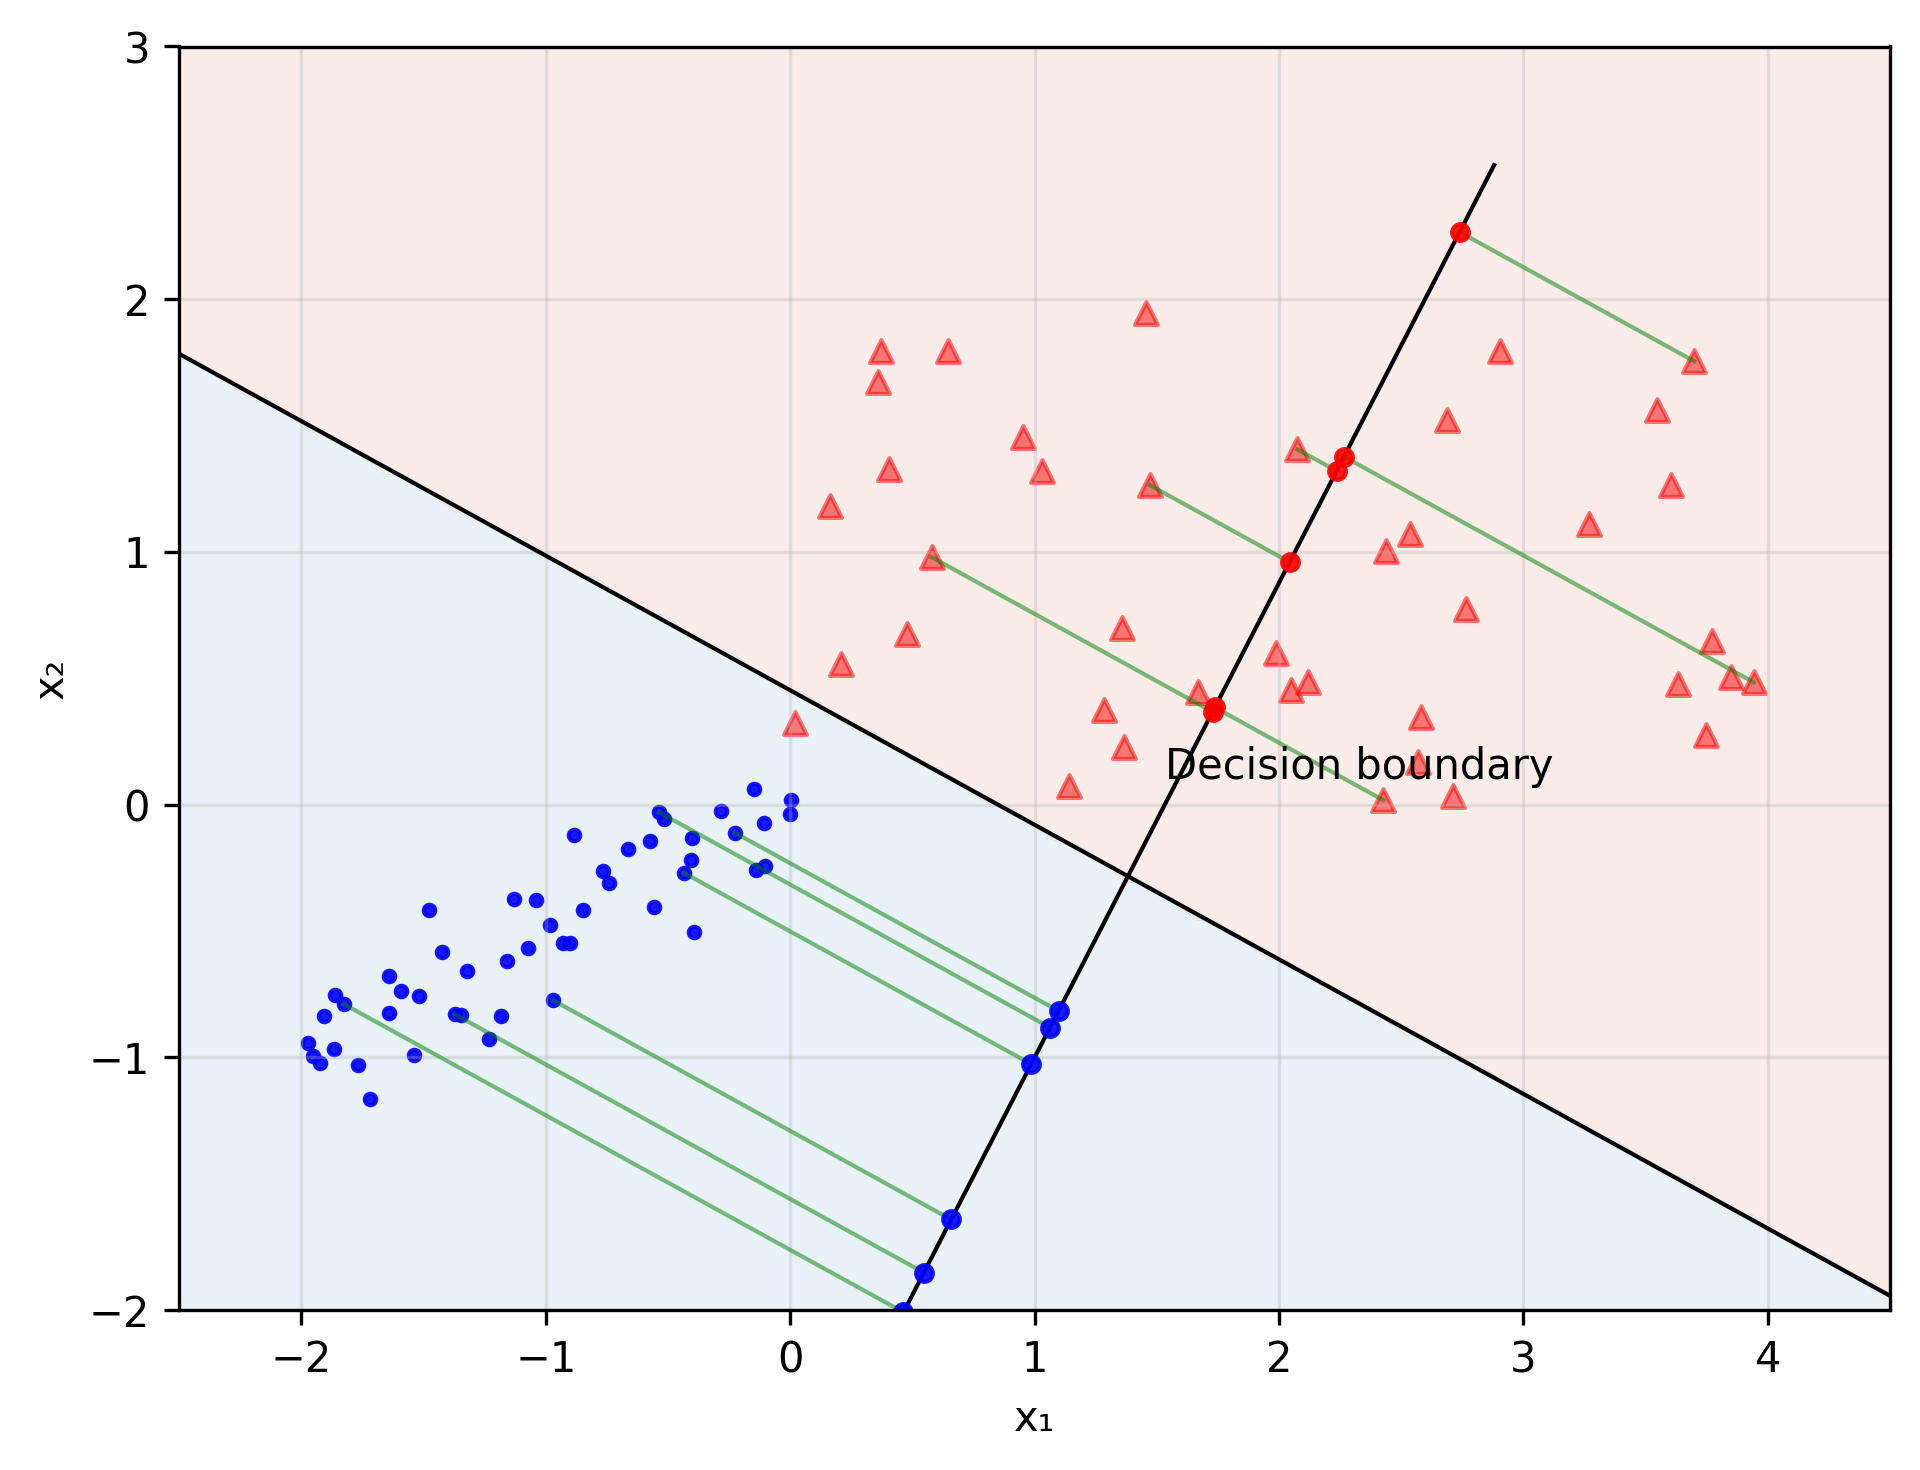
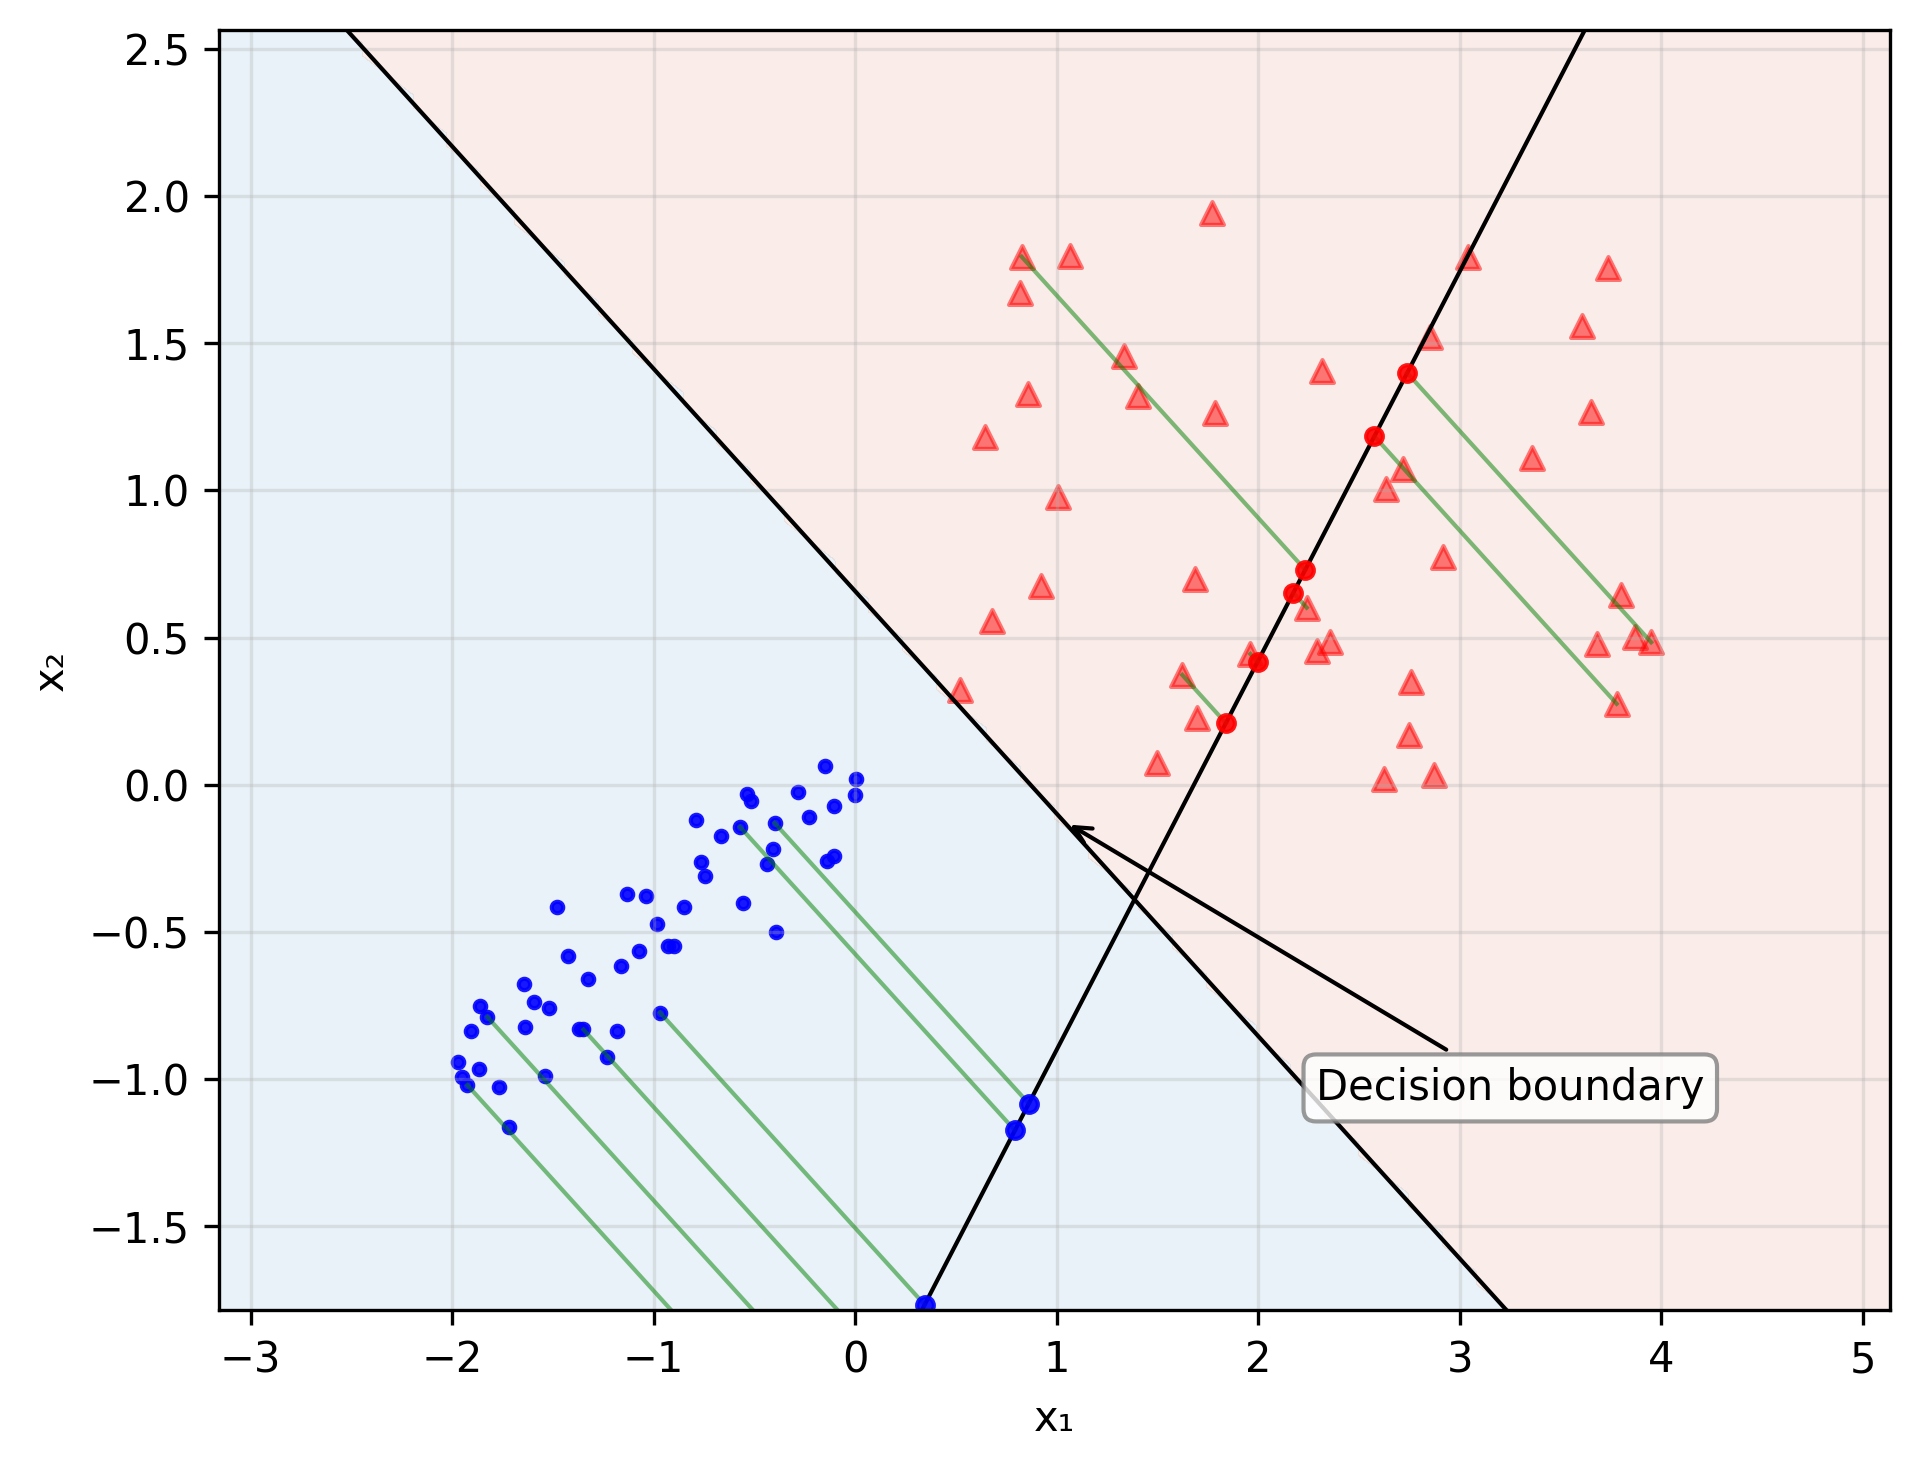
fix

diff --git a/ML_Obsidian_Vault/Lectures/4/Codes/L4_4_Quiz_25_question.py b/ML_Obsidian_Vault/Lectures/4/Codes/L4_4_Quiz_25_question.py
@@ -34,18 +34,19 @@ def create_lda_visualization():
         t = i / (n_samples_class0 - 1)
         X_class0[i, 0] = -2 + t * 2  # x from -2 to 0
         X_class0[i, 1] = -1 + t * 1  # y from -1 to 0
-        # Add random variation
-        X_class0[i, 0] += np.random.normal(0, 0.15)
-        X_class0[i, 1] += np.random.normal(0, 0.15)
+        # Add random variation but limit how far points can stray
+        X_class0[i, 0] += np.clip(np.random.normal(0, 0.15), -0.3, 0.3)
+        X_class0[i, 1] += np.clip(np.random.normal(0, 0.15), -0.3, 0.3)
     
     # Class 1 (red triangles) - more scattered in top right
     n_samples_class1 = 40
     X_class1 = np.zeros((n_samples_class1, 2))
     
-    # Create scattered pattern for red points
+    # Create scattered pattern for red points (ensuring they stay in the top right quadrant)
     for i in range(n_samples_class1):
-        X_class1[i, 0] = np.random.uniform(0, 4)  # x from 0 to 4
-        X_class1[i, 1] = np.random.uniform(0, 2)  # y from 0 to 2
+        # Generate points further away from the blue cluster
+        X_class1[i, 0] = np.random.uniform(0.5, 4)  # x from 0.5 to 4 (minimum 0.5 to avoid overlap)
+        X_class1[i, 1] = np.random.uniform(0, 2)    # y from 0 to 2
     
     # Combine data
     X = np.vstack([X_class0, X_class1])
@@ -73,9 +74,13 @@ def create_lda_visualization():
         w = mean1 - mean0
         w = w / np.linalg.norm(w)
     
-    # For visualization bounds
-    x_min, x_max = -2.5, 4.5
-    y_min, y_max = -2.0, 3.0
+    # Calculate plot bounds based on data
+    x_padding = (np.max(X[:, 0]) - np.min(X[:, 0])) * 0.2
+    y_padding = (np.max(X[:, 1]) - np.min(X[:, 1])) * 0.2
+    x_min = np.min(X[:, 0]) - x_padding
+    x_max = np.max(X[:, 0]) + x_padding
+    y_min = np.min(X[:, 1]) - y_padding
+    y_max = np.max(X[:, 1]) + y_padding
     
     # Compute decision boundary (perpendicular to w, passing through midpoint)
     midpoint = (mean0 + mean1) / 2
@@ -96,21 +101,37 @@ def create_lda_visualization():
             proj = np.dot(point - midpoint, w)
             Z[i, j] = 1 if proj > 0 else 0
     
+    # Force-check data points to make sure there are no misclassifications
+    # Calculate linear classification for each data point
+    for i in range(len(X)):
+        point_class = 1 if np.dot(X[i] - midpoint, w) > 0 else 0
+        # If point is misclassified according to the LDA boundary
+        if point_class != y[i]:
+            # Move the point further into its correct class region
+            if y[i] == 0:  # Blue class
+                # Move blue point more to the left/bottom
+                X[i] = X[i] - 0.5 * w
+            else:  # Red class
+                # Move red point more to the right/top
+                X[i] = X[i] + 0.5 * w
+    
     # Create projection line (in direction perpendicular to decision boundary)
-    # Position it at the bottom of the plot
-    proj_line_y = -1.0  # fixed y-coordinate for the projection line
+    # Position it below the data points (calculate based on data bounds)
+    proj_line_y = y_min + 0.2 * (y_max - y_min)  # Position relative to data bounds
     # Calculate the direction vector of the projection line
     # This is the direction of w itself (perpendicular to decision boundary)
     proj_direction = w / np.linalg.norm(w)
     # Create the projection line endpoints
-    line_length = 8.0
-    proj_center = np.array([1.0, proj_line_y])  # Center of projection line
+    # Calculate line length based on data bounds
+    line_length = 1.2 * (x_max - x_min)
+    # Place line horizontally centered in the plot
+    proj_center = np.array([(x_min + x_max) / 2, proj_line_y])
     proj_start = proj_center - line_length/2 * proj_direction
     proj_end = proj_center + line_length/2 * proj_direction
     
-    return X, y, mean0, mean1, w, xx, yy, Z, xx_line, yy_line, proj_start, proj_end
+    return X, y, mean0, mean1, w, xx, yy, Z, xx_line, yy_line, proj_start, proj_end, midpoint
 
-def plot_visualization(X, y, mean0, mean1, w, xx, yy, Z, xx_line, yy_line, proj_start, proj_end):
+def plot_visualization(X, y, mean0, mean1, w, xx, yy, Z, xx_line, yy_line, proj_start, proj_end, midpoint):
     """Plot the LDA visualization with proper projections."""
     fig, ax = plt.subplots(figsize=(6.5, 5))
     
@@ -124,20 +145,36 @@ def plot_visualization(X, y, mean0, mean1, w, xx, yy, Z, xx_line, yy_line, proj_
     # Plot decision boundary
     plt.plot(xx_line, yy_line, 'k-', linewidth=1)
     
-    # Add "Decision boundary" label
+    # Add "Decision boundary" label with improved placement and visibility
     midpoint_idx = len(xx_line) // 2
+    # Calculate a good position for the label that's away from data points
+    label_x = xx_line[midpoint_idx + 15]
+    label_y = yy_line[midpoint_idx + 15]
+    
+    # Create a white background for the text for better readability
     plt.annotate('Decision boundary', 
                xy=(xx_line[midpoint_idx], yy_line[midpoint_idx]),
-               xytext=(xx_line[midpoint_idx] + 0.5, yy_line[midpoint_idx] + 0.2),
-               fontsize=10)
+               xytext=(label_x, label_y),
+               fontsize=10,
+               bbox=dict(boxstyle="round,pad=0.3", fc="white", ec="gray", alpha=0.8),
+               arrowprops=dict(arrowstyle="->", connectionstyle="arc3", color="black"))
     
     # Plot projection line
     plt.plot([proj_start[0], proj_end[0]], [proj_start[1], proj_end[1]], 'k-', linewidth=1)
     
     # Choose a subset of points from each class
-    indices0 = np.random.choice(np.where(y == 0)[0], 6, replace=False)
-    indices1 = np.random.choice(np.where(y == 1)[0], 6, replace=False)
-    indices = np.concatenate([indices0, indices1])
+    # Use stratified sampling to ensure good coverage
+    class0_indices = np.where(y == 0)[0]
+    class1_indices = np.where(y == 1)[0]
+    
+    # Select points at regular intervals for better distribution
+    step0 = max(1, len(class0_indices) // 6)
+    step1 = max(1, len(class1_indices) // 6)
+    
+    selected_indices0 = class0_indices[::step0][:6]  # Take up to 6 points
+    selected_indices1 = class1_indices[::step1][:6]  # Take up to 6 points
+    
+    indices = np.concatenate([selected_indices0, selected_indices1])
     
     # Unit vector along projection line
     proj_vec = (proj_end - proj_start) / np.linalg.norm(proj_end - proj_start)
@@ -169,9 +206,11 @@ def plot_visualization(X, y, mean0, mean1, w, xx, yy, Z, xx_line, yy_line, proj_
             # Red class projections
             plt.plot(proj_point[0], proj_point[1], 'o', color='red', markersize=4, alpha=0.9)
     
-    # Set axis limits
-    plt.xlim(-2.5, 4.5)
-    plt.ylim(-2.0, 3.0)
+    # Set axis limits based on data
+    x_padding = (np.max(X[:, 0]) - np.min(X[:, 0])) * 0.2
+    y_padding = (np.max(X[:, 1]) - np.min(X[:, 1])) * 0.2
+    plt.xlim(np.min(X[:, 0]) - x_padding, np.max(X[:, 0]) + x_padding)
+    plt.ylim(np.min(X[:, 1]) - y_padding, np.max(X[:, 1]) + y_padding)
     
     # Add labels
     plt.xlabel('x₁')
@@ -180,11 +219,21 @@ def plot_visualization(X, y, mean0, mean1, w, xx, yy, Z, xx_line, yy_line, proj_
     plt.tight_layout()
     plt.savefig(os.path.join(save_dir, "lda_visualization.png"), dpi=300, bbox_inches='tight')
     plt.close()
+    
+    # Additional check - print any potentially misclassified points
+    misclassified = []
+    for i in range(len(X)):
+        point_class = 1 if np.dot(X[i] - midpoint, w) > 0 else 0
+        if point_class != y[i]:
+            misclassified.append(i)
+    
+    if misclassified:
+        print(f"Warning: {len(misclassified)} points might be misclassified")
 
 # Generate and save visualization
-print("Generating improved LDA visualization for quiz question...")
-X, y, mean0, mean1, w, xx, yy, Z, xx_line, yy_line, proj_start, proj_end = create_lda_visualization()
-plot_visualization(X, y, mean0, mean1, w, xx, yy, Z, xx_line, yy_line, proj_start, proj_end)
+print("Generating final LDA visualization for quiz question...")
+X, y, mean0, mean1, w, xx, yy, Z, xx_line, yy_line, proj_start, proj_end, midpoint = create_lda_visualization()
+plot_visualization(X, y, mean0, mean1, w, xx, yy, Z, xx_line, yy_line, proj_start, proj_end, midpoint)
 
 print(f"Visualization saved to: {save_dir}")
 print(f"LDA direction vector: {w}")
